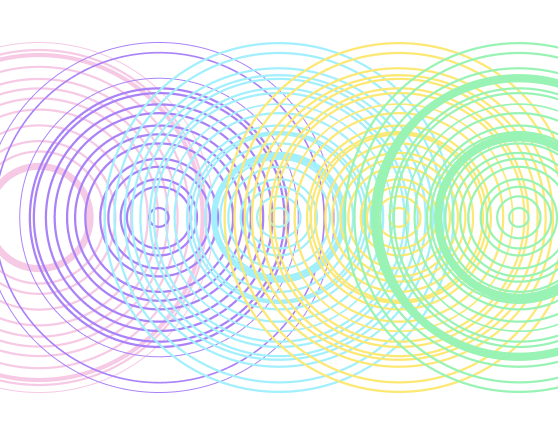
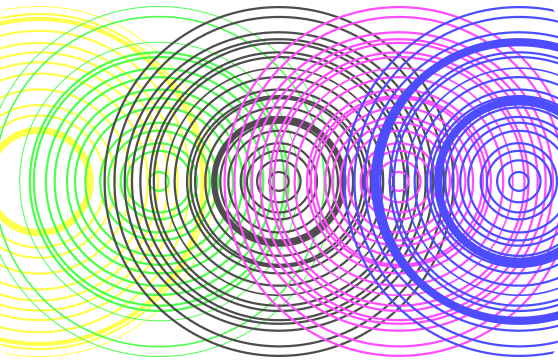
fix: final design changes

diff --git a/src/views/Home/index.tsx b/src/views/Home/index.tsx
@@ -41,14 +41,19 @@ class Home extends React.Component<RouteComponentProps> {
   } = {};
 
   private themeChoices = {
-    'theme-1': ['77, 87, 240', '212, 235, 80', '235, 78, 195', '133, 251, 170', '159, 61, 246'],
-    'theme-2': ['235, 53, 49', '241, 150, 55', '253, 235, 79', '123, 250, 77', '50, 128, 247'],
+    'theme-1': ['0, 0, 255', '0, 0, 0', '255, 0, 255', '0, 255, 0', '255, 255, 0'],
+    'theme-2': ['77, 87, 240', '212, 235, 80', '235, 78, 195', '133, 251, 170', '159, 61, 246'],
     'theme-3': ['130, 234, 252', '251, 234, 80', '234, 69, 38', '18, 71, 215', '178, 244, 78'],
-    'theme-4': ['156, 250, 235', '235, 55, 129', '58, 124, 247', '235, 63, 60', '252, 231, 88'],
-    'theme-5': ['175, 205, 113', '98, 104, 200', '177, 130, 214', '238, 124, 157', '133, 184, 220'],
-    'theme-6': ['117, 39, 199', '220, 69, 184', '220, 69, 184', '66, 149, 202', '92, 192, 86'],
-    'theme-7': ['235, 53, 117', '28, 83, 188', '223, 184, 63', '75, 156, 50', '84, 186, 160'],
-    'theme-8': ['31, 89, 189', '227, 220, 73', '239, 123, 64', '235, 63, 176', '135, 194, 59'],
+    'theme-4': ['235, 53, 49', '241, 150, 55', '253, 235, 79', '123, 250, 77', '50, 128, 247'],
+    'theme-5': ['240, 169, 83', '57, 59, 78', '148, 70, 146', '73, 156, 141', '41, 87, 162'],
+    'theme-6': ['207, 207, 207', '221, 77, 63', '248, 208, 96', '244, 182, 245', '0, 0, 0'],
+    'theme-7': ['50, 113, 102', '149, 156, 98', '198, 170, 114', '187, 161, 197', '90, 179, 118'],
+    'theme-8': ['18, 14, 18', '178, 184, 193', '108, 117, 148', '209, 185, 73', '240, 235, 111'],
+    'theme-9': ['151, 39, 42', '231, 103, 43', '245, 183, 114', '248, 210, 164', '143, 132, 87'],
+    'theme-10': ['109, 115, 247', '47, 58, 238', '214, 224, 255', '212, 121, 155', '188, 16, 69'],
+    'theme-11': ['198, 248, 255', '195, 214, 252', '157, 176, 249', '123, 142, 248', '85, 105, 246'],
+    'theme-12': ['58, 35, 77', '87, 71, 99', '205, 202, 213', '225, 220, 232', '186, 175, 202'],
+    'theme-13': ['216, 219, 195', '157, 211, 217', '91, 154, 160', '76, 118, 131', '45, 85, 111'],
   };
 
   private iterableToArray = (iterable: IterableIterator<unknown>): any[] => {
@@ -195,7 +200,7 @@ class Home extends React.Component<RouteComponentProps> {
         {this.headerLabel}
         <Paper elevation="1" className="has-actions-paper">
           <Typography className="form-headings" variant="heading-1">Data source</Typography>
-          <Select label="Select your data" value={this.amazonUrl}><SelectItem value={this.amazonUrl}>{this.amazonUrl}</SelectItem></Select>
+          <Select label="Data source" value={this.amazonUrl}><SelectItem value={this.amazonUrl}>{this.amazonUrl}</SelectItem></Select>
           <Select
             label="Choose a dimension"
             value={dimension}
@@ -215,23 +220,21 @@ class Home extends React.Component<RouteComponentProps> {
             })}
           </div>
           <Typography className="form-headings" variant="heading-1">Artwork</Typography>
-          <InputRadioGroup onValueChange={changeArtStyle} value={artworkType}>
-            <div className="items">
-              <InputRadio label={<img className="artwork-preview" src={linearImage} title="Linear" alt="Linear" /> as unknown as string} value="linear" />
-              <InputRadio label={<img className="artwork-preview" src={radialImage} title="Radial" alt="Radial" /> as unknown as string} value="radial" />
-            </div>
-            <Typography className="fake-label" variant="body-1">Time based art styles</Typography>
-            <Typography className="fake-helper" variant="caption-median">Choose more complex art styles by adding a time dimension </Typography>
-            <div className="items">
-              <InputRadio label={<img className="artwork-preview" src={timeLineImage} title="Time Line" alt="Time Line" /> as unknown as string} value="time-line" />
-              <InputRadio label={<img className="artwork-preview" src={timeEyeImage} title="Time Eye" alt="Time Eye" /> as unknown as string} value="time-eye" />
-            </div>
+          <Typography className="fake-label" variant="body-1">Choose a style</Typography>
+          <InputRadioGroup orientation="horizontal" onValueChange={changeArtStyle} value={artworkType}>
+            <InputRadio label={<><Typography className="artwork-preview--name" variant="body-1">Linear gradient</Typography><img className="artwork-preview" src={linearImage} title="Linear gradient" alt="Linear gradient" /></> as unknown as string} value="linear" />
+            <InputRadio label={<><Typography className="artwork-preview--name" variant="body-1">Radial gradient</Typography><img className="artwork-preview" src={radialImage} title="Radial gradient" alt="Radial gradient" /></> as unknown as string} value="radial" />
+            <InputRadio label={<><Typography className="artwork-preview--name" variant="body-1">Draw lines</Typography><img className="artwork-preview" src={timeLineImage} title="Draw lines" alt="Draw lines" /></> as unknown as string} value="time-line" />
+            <InputRadio label={<><Typography className="artwork-preview--name" variant="body-1">Draw circles</Typography><img className="artwork-preview" src={timeEyeImage} title="Draw circles" alt="Draw circles" /></> as unknown as string} value="time-eye" />
           </InputRadioGroup>
-          {artworkType.includes('time-') && <Select label="Which dimension represents time?" value={timeVariable} onSelect={data => this.setState({timeVariable: data})}>
-            {dimensions.map(dimensionKey => {
-              return <SelectItem key={dimensionKey} value={dimensionKey}>{`${this.uppercaseChoice(dimensionKey)} (${dimensionKey})`}</SelectItem>;
-            })}
-          </Select>}
+          {artworkType.includes('time-') && <>
+            {!timeVariable && <Typography className="time-required" variant="caption-median">This style requires a time based dimension.</Typography>}
+            <Select label="Choose a time based dimension" value={timeVariable} onSelect={data => this.setState({timeVariable: data})}>
+              {dimensions.map(dimensionKey => {
+                return <SelectItem key={dimensionKey} value={dimensionKey}>{`${this.uppercaseChoice(dimensionKey)} (${dimensionKey})`}</SelectItem>;
+              })}
+            </Select>
+          </>}
           {!!selectedVariables.length && <>
             <Select
               label="Choose a color palette"
@@ -250,7 +253,7 @@ class Home extends React.Component<RouteComponentProps> {
             <div className="color-pickers">
               {colorSelection.slice(0, selectedVariables.length).map((color, index) => {
                 return <div className="color-picker" key={index}>
-                  <Button label={<span style={{backgroundColor: `rgb(${colorSelection[index]})`, width: 24, height: 24}} className="color-preview-item" /> as unknown as string} icon={<UilAngleDown />} variant="display" onClick={() => this.setState({openColorPicker: openColorPicker === index ? undefined : index})} />
+                  <Button label={<span style={{backgroundColor: `rgb(${colorSelection[index]})`}} className="color-preview-item" /> as unknown as string} icon={<UilAngleDown />} variant="display" onClick={() => this.setState({openColorPicker: openColorPicker === index ? undefined : index})} />
                   <SketchPicker
                     className={`color-picker--popup ${openColorPicker === index ? 'open' : 'close'}`}
                     color={color}
@@ -265,8 +268,8 @@ class Home extends React.Component<RouteComponentProps> {
               })}
             </div>
           </>}
-          <InputText label="Title (optional)" onChange={(_event, data) => this.setState({title: data})} placeholder="Add a title to your artwork" type="text" value={title} />
-          <Textarea label="Description (optional)" onChange={(_event, data) => this.setState({description: data})} placeholder="Include a more detail instruction for your art." value={description}></Textarea>
+          <InputText label="Title & description (optional)" onChange={(_event, data) => this.setState({title: data})} placeholder="Add a title to your artwork" type="text" className="tighter-item" value={title} />
+          <Textarea onChange={(_event, data) => this.setState({description: data})} placeholder="Include a more detailed message." value={description}></Textarea>
           <Button className="paper-submit-button" disabled={disabledGenerate} label="Generate art" onClick={this.generateArt} />
           <Button className="paper-secondary-button" variant="secondary" label="Go to data loader" onClick={this.openDataLoader} />
         </Paper>

diff --git a/src/views/App/App.scss b/src/views/App/App.scss
@@ -3,7 +3,7 @@
 }
 
 .standard-content {
-  max-width: 1000px;
+  max-width: 1140px;
   width: 100%;
   margin: var(--size-spacing-4) auto;
 }
@@ -36,10 +36,10 @@
 
 .fractal-select,
 .fractal-input-text,
-.fractal-input-textarea,
-.fractal-input-radio-group .items {
+.fractal-input-textarea {
   width: 100%;
   margin-bottom: 1.5rem;
+  max-width: 553px;
 
   input,
   textarea {
@@ -49,11 +49,15 @@
   textarea {
     min-height: 100px;
   }
+
+  &.tighter-item {
+    margin-bottom: 0.5rem;
+  }
 }
 
 .checkbox-wrapper {
   display: flex;
-  gap: 1.5rem;
+  gap: 1rem;
   flex-wrap: wrap;
   margin-bottom: 1.5em;
 }
@@ -184,7 +188,12 @@
 
 .artwork-preview {
   width: 186px;
-  height: 145px;
+  height: 121px;
+
+  &--name {
+    margin: 0;
+    margin-bottom: 4px;
+  }
 }
 
 .color-preview-item {
@@ -222,6 +231,11 @@
   position: relative;
   margin-right: 0.5rem;
 
+  button {
+    border-radius: var(--size-radius-s);
+    padding: 0 var(--size-select-padding-horizontal);
+  }
+
   &--popup {
     position: absolute;
     top: 100%;
@@ -236,4 +250,17 @@
       display: block;
     }
   }
+}
+
+.fractal-input-radio-group {
+  gap: 1rem;
+  flex-wrap: wrap;
+  width: 100%;
+  margin-bottom: 1.5rem;
+}
+
+.time-required {
+  font-weight: 400;
+  color: rgb(255, 84, 84);
+  margin-top: -0.75rem;
 }
